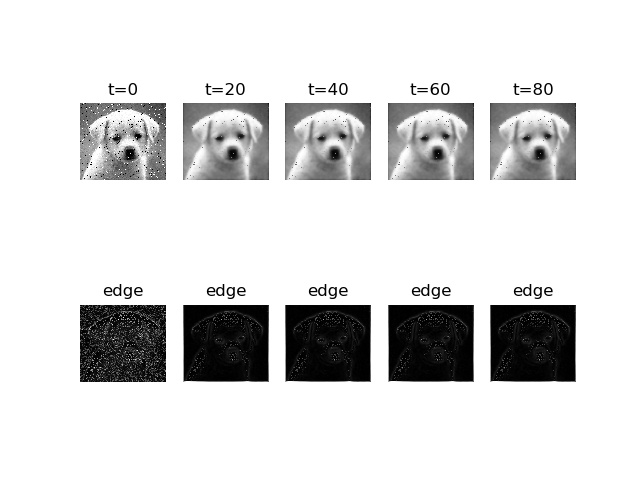
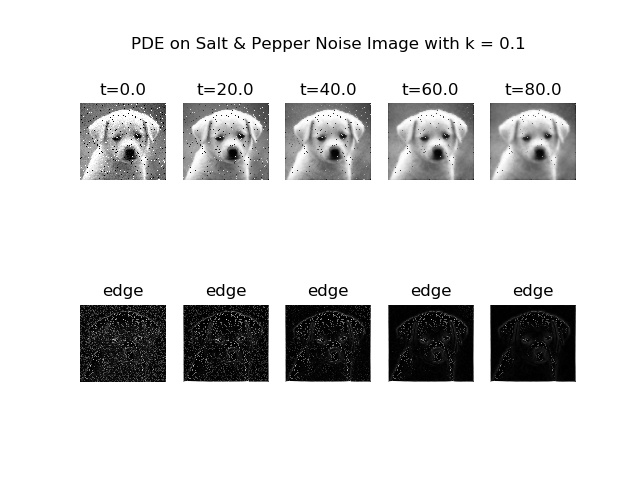
fix the bug (caused by deep copy) and done with several parts of the problem

diff --git a/main.py b/main.py
@@ -51,6 +51,7 @@ def add_noise():
     ax2.imshow(gaussian_image)
     ax3.imshow(salt_pepper_image)
 
+    figure.tight_layout()
     plt.show()
 
     imageio.imwrite(GAUSSIAN_IMAGE, np.uint8(gaussian_image * 255))
@@ -118,6 +119,7 @@ def gaussian_low_pass_filter_and_edge_detection():
     ax5.imshow(gaussian_image_filtered_edge)
     ax6.imshow(salt_pepper_image_filtered_edge)
 
+    figure.tight_layout()
     plt.show()
 
     print("")
@@ -149,20 +151,31 @@ def edge_detection(image):
 
 
 def PDE():
+    # parameters
+    num_col = 5
+    iterations = 80
+    b_gaussian = 0.1
+    lamb_gaussian = 0.1
+    b_sp = 0.1
+    lamb_sp = 0.1
+    b_sp1 = 0.2
+
     print("applying PDE with Gaussian noise image...")
 
-    log_Gaussian_PDE = anisotropic_diffusion(GAUSSIAN_IMAGE, log_freq=1, iterations=4, b=0.1, lamb=0.1)
+    log_Gaussian_PDE = anisotropic_diffusion(GAUSSIAN_IMAGE, log_freq=iterations/(num_col-1), iterations=iterations, b=b_gaussian, lamb=lamb_gaussian)
 
     figure = plt.figure()
+    plt.title("PDE on Gaussian Noise Image with k = " + str(b_gaussian))
+    plt.axis('off')
     plt.gray()
 
     for i in range(len(log_Gaussian_PDE)):
-        ax1 = figure.add_subplot(2, 5, i + 1)
-        plt.title("t="+str(20 * i))
+        ax1 = figure.add_subplot(2, num_col, i + 1)
+        plt.title("t="+str(iterations/(num_col-1) * i))
         plt.axis('off')
         ax1.imshow(log_Gaussian_PDE[i])
 
-        ax2 = figure.add_subplot(2, 5, i + 6)
+        ax2 = figure.add_subplot(2, num_col, i + num_col + 1)
         plt.title("edge")
         plt.axis('off')
         ax2.imshow(edge_detection(log_Gaussian_PDE[i]))
@@ -173,36 +186,114 @@ def PDE():
 
     #######################################################
 
-    print("applying PDE with Salt & Pepper noise image...")
+    print("applying PDE with Salt & Pepper noise image (k = 0.1)...")
 
-    log_SA_PDE = anisotropic_diffusion(SALT_PEPPER_IMAGE, log_freq=20, iterations=80, b=0.1, lamb=0.1)
+    log_SA_PDE = anisotropic_diffusion(SALT_PEPPER_IMAGE, log_freq=iterations/(num_col-1), iterations=iterations, b=b_sp, lamb=lamb_sp)
 
     figure = plt.figure()
+    plt.title("PDE on Salt & Pepper Noise Image with k = " + str(b_sp))
+    plt.axis('off')
     plt.gray()
 
     for i in range(len(log_SA_PDE)):
-        ax1 = figure.add_subplot(2, 5, i + 1)
-        plt.title("t="+str(20 * i))
+        ax1 = figure.add_subplot(2, num_col, i + 1)
+        plt.title("t="+str(iterations/(num_col-1) * i))
         plt.axis('off')
         ax1.imshow(log_SA_PDE[i])
 
-        ax2 = figure.add_subplot(2, 5, i + 6)
+        ax2 = figure.add_subplot(2, num_col, i + num_col + 1)
         plt.axis('off')
         plt.title("edge")
         ax2.imshow(edge_detection(log_SA_PDE[i]))
 
     plt.savefig("images/PDE_SP.jpg")
     plt.show()
-    print("\tPDE with Salt & Pepper noise image saved in: images/PDE_SP.jpg\n")
+    print("\tPDE with Salt & Pepper noise (k=0.1) image saved in: images/PDE_SP.jpg\n")
 
-    image = np.array(Image.open(ORIGINAL_IMAGE).convert('L')) / 255
+    #######################################################
+
+    print("applying PDE with Salt & Pepper noise image (k = 0.2)...")
+
+    log_SA_PDE1 = anisotropic_diffusion(SALT_PEPPER_IMAGE, log_freq=iterations / (num_col - 1), iterations=iterations,
+                                       b=b_sp1, lamb=lamb_sp)
+
+    figure = plt.figure()
+    plt.title("PDE on Salt & Pepper Noise Image with k = " + str(b_sp1))
+    plt.axis('off')
+    plt.gray()
+
+    for i in range(len(log_SA_PDE1)):
+        ax1 = figure.add_subplot(2, num_col, i + 1)
+        plt.title("t=" + str(iterations / (num_col - 1) * i))
+        plt.axis('off')
+        ax1.imshow(log_SA_PDE1[i])
+
+        ax2 = figure.add_subplot(2, num_col, i + num_col + 1)
+        plt.axis('off')
+        plt.title("edge")
+        ax2.imshow(edge_detection(log_SA_PDE1[i]))
+
+    plt.savefig("images/PDE_SP1.jpg")
+    plt.show()
+    print("\tPDE with Salt & Pepper noise (k=0.2) image saved in: images/PDE_SP1.jpg\n")
+
+    #######################################################
+
+    print("analyzing the PSNR of Gaussian/S&P Noise...")
+
+    original_image = np.array(Image.open(ORIGINAL_IMAGE).convert('L')) / 255
+
+    PSNR_Gaussian = []
     for target in log_Gaussian_PDE:
-        print(PSNR(target, image))
+        PSNR_Gaussian.append(PSNR(original_image, target))
+    print("\tdone with calculating the PSNR result for Gaussian noise")
+
+    PSNR_SP = []
+    for target in log_SA_PDE:
+        PSNR_SP.append(PSNR(original_image, target))
+    print("\tdone with calculating the PSNR result for Salt & Pepper noise with k = 0.1")
+
+    PSNR_SP1 = []
+    for target in log_SA_PDE1:
+        PSNR_SP1.append(PSNR(original_image, target))
+    print("\tdone with calculating the PSNR result for Salt & Pepper noise with k = 0.2")
+
+    figure = plt.figure()
+    x = np.arange(0, iterations + iterations/(num_col-1), iterations/(num_col-1))
+
+    ax1 = figure.add_subplot(3, 1, 1)
+    ax1.plot(x, PSNR_Gaussian, "*-")
+    plt.xlabel("Iterations")
+    plt.ylabel("PSNR/dB")
+    plt.title("PSNR for Gaussian Noise image with k = 0.1")
+
+    ax2 = figure.add_subplot(3, 1, 2)
+    ax2.plot(x, PSNR_SP, "*-")
+    plt.xlabel("Iterations")
+    plt.ylabel("PSNR/dB")
+    plt.title("PSNR for Salt & Pepper Noise image with k = 0.1")
+
+    ax3 = figure.add_subplot(3, 1, 3)
+    ax3.plot(x, PSNR_SP, "*-")
+    plt.xlabel("Iterations")
+    plt.ylabel("PSNR/dB")
+    plt.title("PSNR for Salt & Pepper Noise image with k = 0.2")
+
+    figure.tight_layout()
+    plt.savefig('images/PSNR_result.jpg')
+    print("\tPSNR result save in: images/PSNR_result.jpg")
+    print("\tPSNR for Gaussian with k = 0.1 in iterations", x, "is: ")
+    print("\t\t", PSNR_Gaussian)
+    print("\tPSNR for Salt & Pepper with k = 0.1 in iterations", x, "is: ")
+    print("\t\t", PSNR_SP)
+    print("\tPSNR for Salt & Pepper with k = 0.2 in iterations", x, "is: ")
+    print("\t\t", PSNR_SP1)
+    plt.show()
 
 
 def main():
-    # add_noise()
-    # gaussian_low_pass_filter_and_edge_detection()
+    add_noise()
+    gaussian_low_pass_filter_and_edge_detection()
     PDE()
 
 

diff --git a/Perona_Malik.py b/Perona_Malik.py
@@ -25,7 +25,7 @@ def anisotropic_diffusion(image_location, log_freq, iterations, b, lamb=0.01):
 
     result = [image]
 
-    for t in range(1, iterations + 1):
+    for t in range(iterations):
         I_North = image[:-2, 1:-1] - image[1:-1, 1:-1]
         I_South = image[2:, 1:-1] - image[1:-1, 1:-1]
         I_East = image[1:-1, 2:] - image[1:-1, 1:-1]
@@ -40,8 +40,8 @@ def anisotropic_diffusion(image_location, log_freq, iterations, b, lamb=0.01):
 
         image = new_image
 
-        if t % log_freq == 0:
-            result.append(image)
+        if (t+1) % log_freq == 0:
+            result.append(image.copy())
 
     return result
 
@@ -64,10 +64,7 @@ def PSNR(target, ref):
 
 
 def test():
-    log = anisotropic_diffusion("images/gaussian_noise_dog.jpg", log_freq=10, iterations=80, b=0.1, lamb=0.1)
-    ref = log[0]
-    for i in range(1, len(log)):
-        print(PSNR(log[i-1], log[i]))
+    log = anisotropic_diffusion("images/gaussian_noise_dog.jpg", log_freq=1, iterations=10, b=0.1, lamb=0.1)
 
 
 if __name__ == "__main__":
